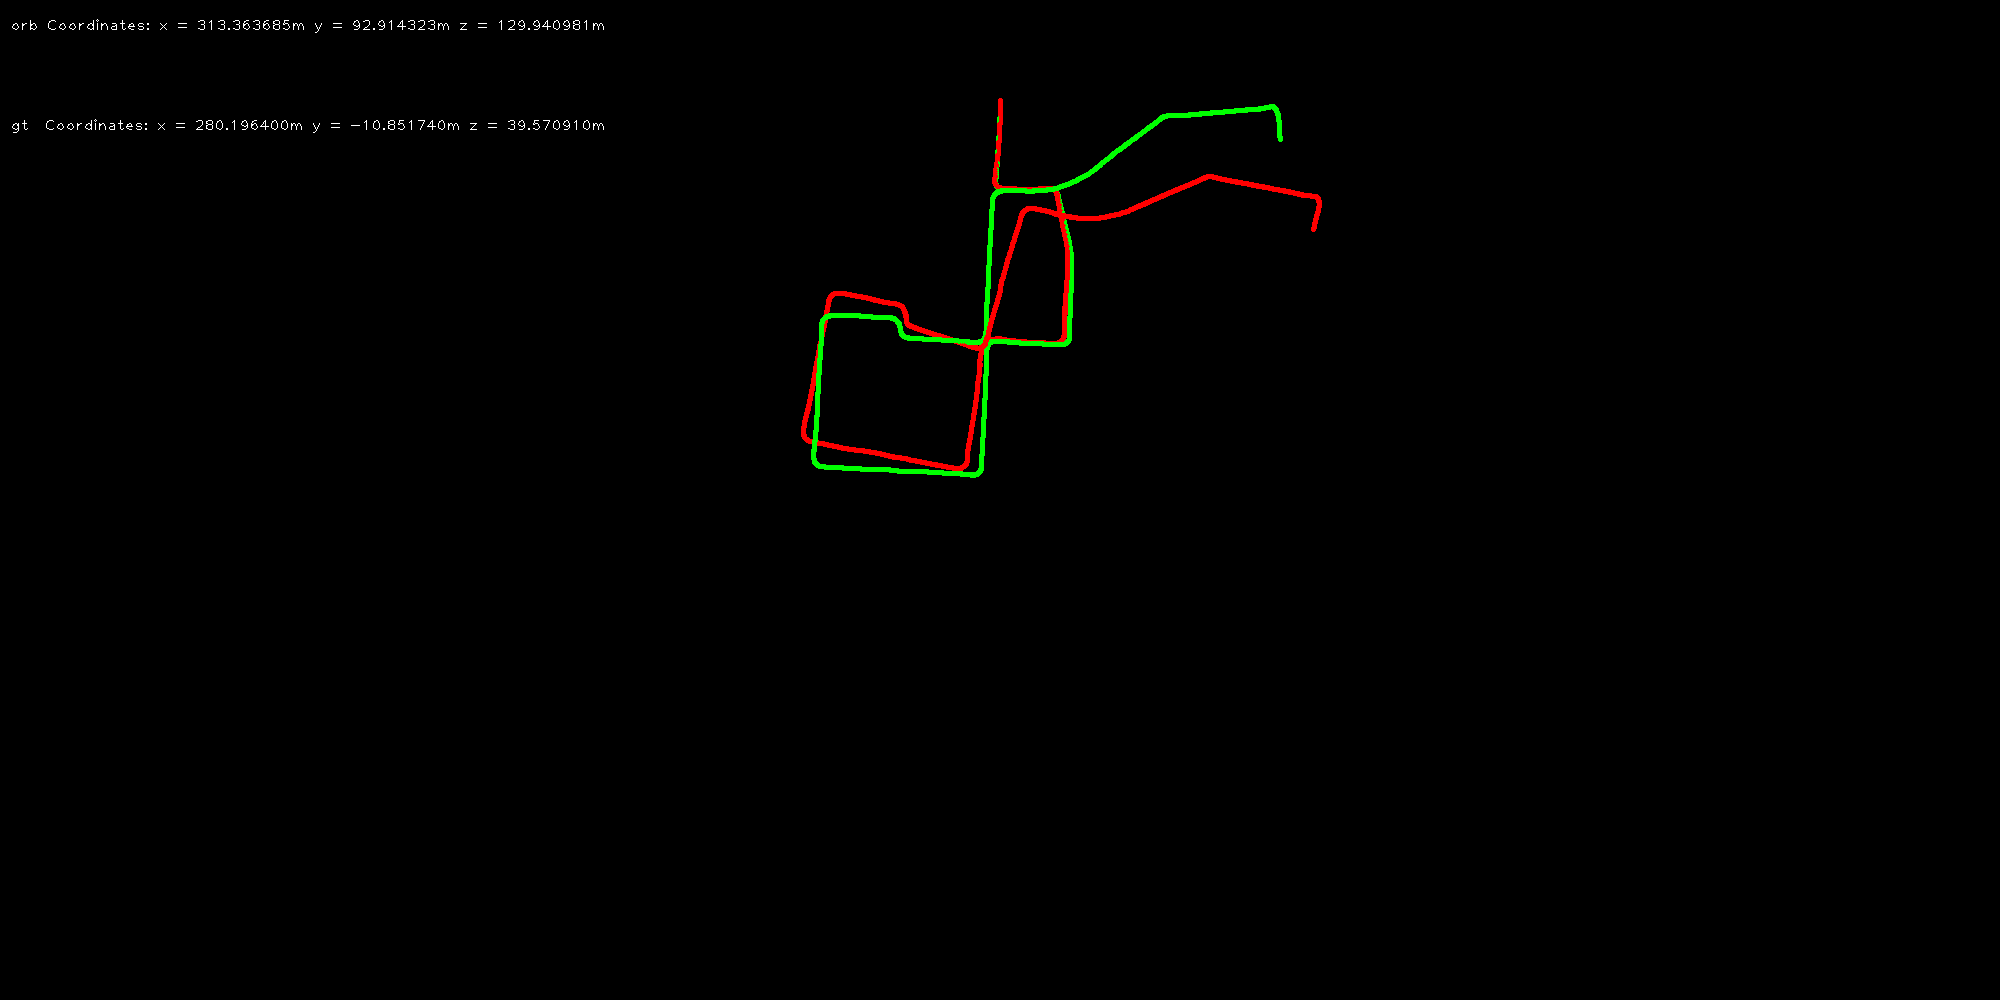
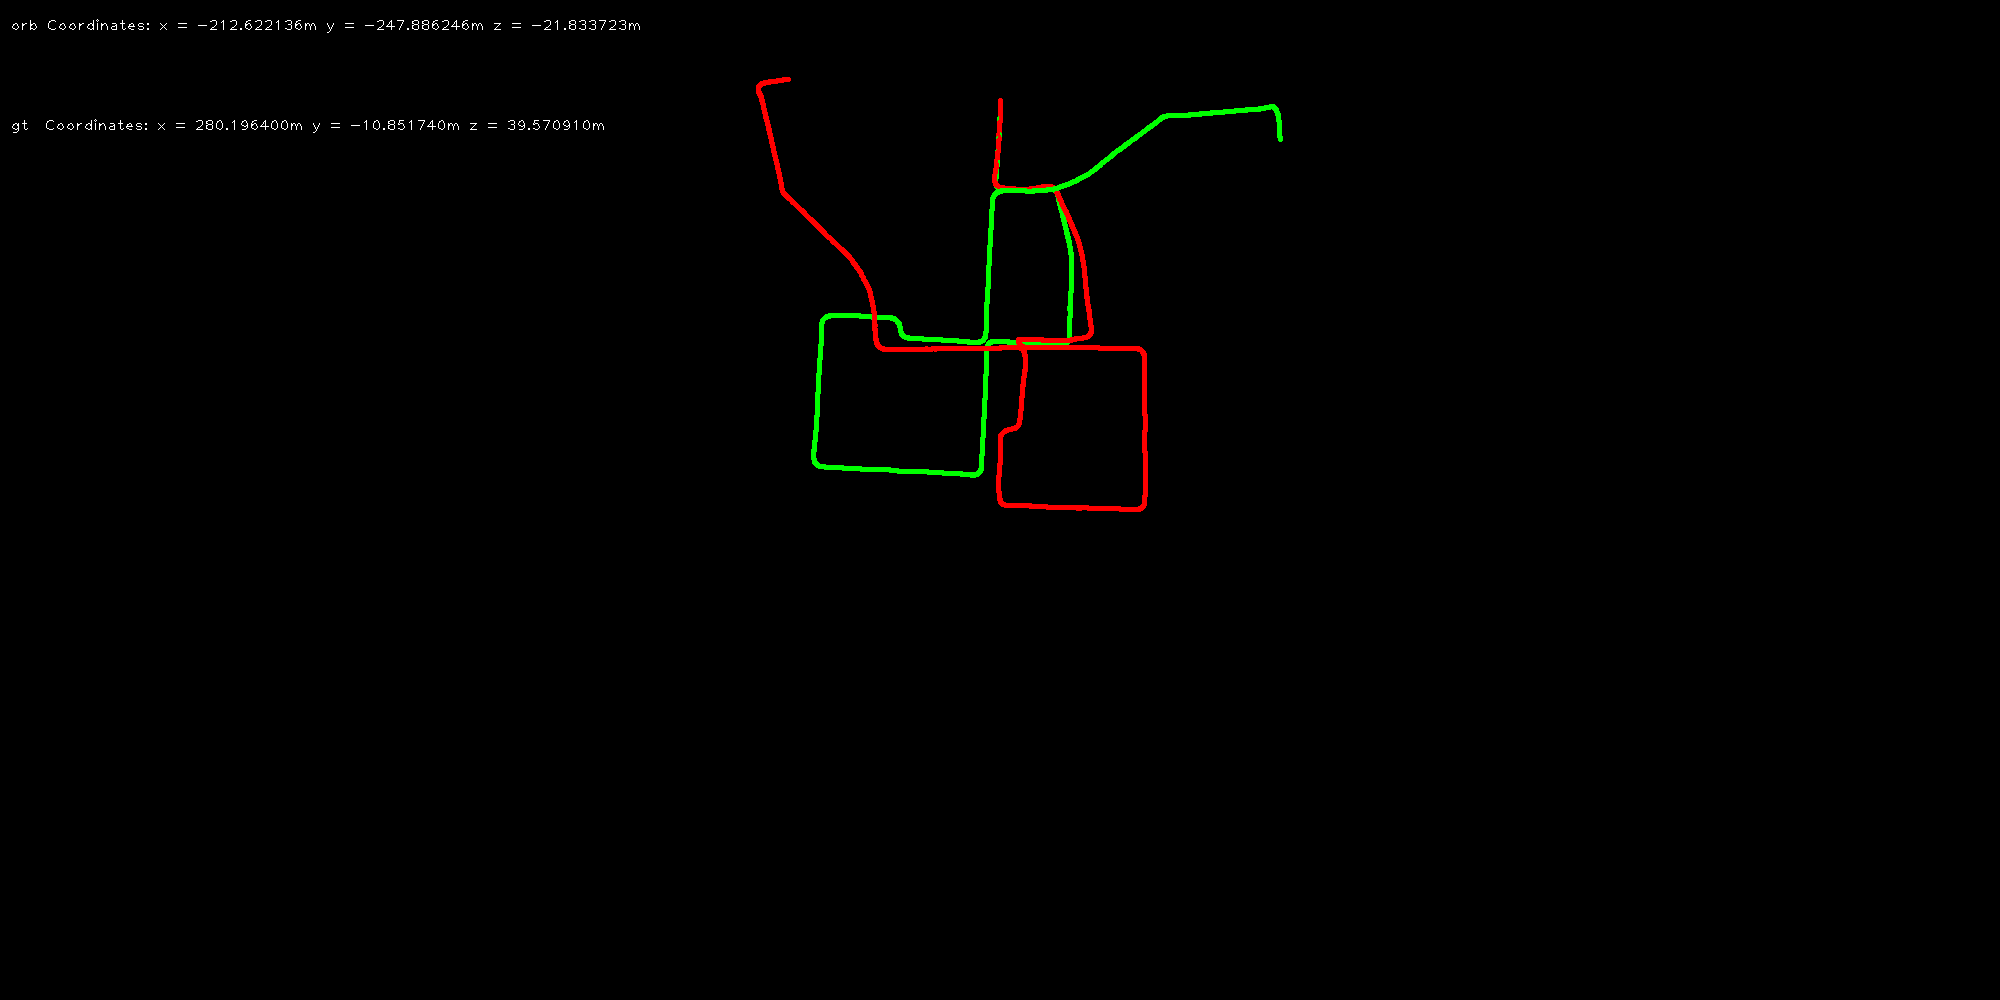
add bisenet rmse

diff --git a/vis_odom_using_BiSeNet_v2.py b/vis_odom_using_BiSeNet_v2.py
@@ -7,8 +7,22 @@ import types
 import operator
 
 
+sys.path.insert(0, '/home/cordin/mono_vis_odom_python')
+
+import torch
+import torch.nn as nn
+
+import lib.transform_cv2 as T
+from lib.models import model_factory
+from configs import set_cfg_from_file
+
+torch.set_grad_enabled(False)
+np.random.seed(123)
+
+
+## orb 및 bf matcher 선언
 orb = cv2.cv2.ORB_create(
-                        nfeatures=3000,
+                        nfeatures=5000,
                         scaleFactor=1.2,
                         nlevels=8,
                         edgeThreshold=31,
@@ -21,19 +35,6 @@ orb = cv2.cv2.ORB_create(
 
 bf = cv2.BFMatcher(cv2.NORM_HAMMING)
 
-
-import torch
-import torch.nn as nn
-
-sys.path.insert(0, '/home/cordin/Vis_odom_python')
-
-import lib.transform_cv2 as T
-from lib.models import model_factory
-from configs import set_cfg_from_file
-
-
-torch.set_grad_enabled(False)
-np.random.seed(123)
 
 mapping = { 
         0: 19,
@@ -60,34 +61,34 @@ mapping = {
     }
 
 args = types.SimpleNamespace()
-args.config             = '/home/cordin/Vis_odom_python/configs/bisenetv2_city.py'
-args.weight_path        = '/home/cordin/Vis_odom_python/model_final_v2_city.pth'
+args.config             = '/home/cordin/mono_vis_odom_python/configs/bisenetv2_city.py'
+args.weight_path        = '/home/cordin/mono_vis_odom_python/model_final_v2_city.pth'
 
 cfg = set_cfg_from_file(args.config)
 palette = np.random.randint(0, 256, (256, 3), dtype=np.uint8)
 
-
-# define model
+## define model
 net = model_factory[cfg.model_type](cfg.n_cats, aux_mode='pred')
 net.load_state_dict(torch.load(args.weight_path, map_location='cpu'), strict=False)
 net.eval()
 net.cuda()
 
-# prepare data
+## prepare data
 to_tensor = T.ToTensor(
     mean=(0.3257, 0.3690, 0.3223), # city, rgb
     std=(0.2112, 0.2148, 0.2115),
 )
 
+##dynamic object라고 판단되는 class 들을 0으로 masking
 def encode_labels(mask):
     label_mask = np.zeros_like(mask)
     for k in mapping:
         label_mask[mask == k] = mapping[k]
     return label_mask
 
-def getScale(NumFrame, t_gt):
+def getScale(NumFrame, t_gt, seq_num):
 
-    txt_file = open('/media/cordin/새 볼륨/rosbag/dataset/poses/02.txt')
+    txt_file = open('/media/cordin/새 볼륨/rosbag/dataset/poses/{0:02d}.txt'.format(seq_num))
     
     x_prev = float(t_gt[0])
     y_prev = float(t_gt[1])
@@ -111,8 +112,10 @@ def getScale(NumFrame, t_gt):
 
 
 if __name__ == "__main__":
-    MAX_FRAME = 4541
-    
+    MAX_FRAME = 2000
+    SEQ_NUM = 2
+
+    # Camera intrinsic parameter    
     focal = 718.8560
     pp = (607.1928, 185.2157)
 
@@ -120,34 +123,40 @@ if __name__ == "__main__":
     textOrg2 = (10,80)
     textOrg3 = (10,130)
 
-    img_1_c = cv2.imread("/media/cordin/새 볼륨/rosbag/dataset/sequences/02/image_0/000000.png")
-    img_2_c = cv2.imread("/media/cordin/새 볼륨/rosbag/dataset/sequences/02/image_0/000001.png")
+    img_1_c = cv2.imread("/media/cordin/새 볼륨/rosbag/dataset/sequences/{0:02d}/image_0/000000.png".format(SEQ_NUM))
+    img_2_c = cv2.imread("/media/cordin/새 볼륨/rosbag/dataset/sequences/{0:02d}/image_0/000001.png".format(SEQ_NUM))
 
     img_1 = cv2.cvtColor(img_1_c,cv2.COLOR_BGR2GRAY)
     img_2 = cv2.cvtColor(img_2_c,cv2.COLOR_BGR2GRAY)
 
+
+    # 이미지 캔버스 생성
+    base_img1 = np.zeros((1024,2048,3),dtype=np.uint8)
+    base_img1[324:700,404:1645,:] = img_1_c
+    base_img2 = np.zeros((1024,2048,3),dtype=np.uint8)
+    base_img2[324:700,404:1645,:] = img_2_c
+
     # inference
-    im = cv2.resize(img_1_c,(640,480))
-    im = im[:, :, ::-1]       
-    im = to_tensor(dict(im=im, lb=None))['im'].unsqueeze(0).cuda()
+    im1 = base_img1[:, :, ::-1]       
+    im1 = to_tensor(dict(im=im1, lb=None))['im'].unsqueeze(0).cuda()
+    im2 = base_img2[:, :, ::-1]       
+    im2 = to_tensor(dict(im=im2, lb=None))['im'].unsqueeze(0).cuda()
 
-    out = net(im).squeeze().detach().cpu().numpy()
-
-    pred = np.where(out==0,19,out)
-    pred = palette[pred]
-    out = encode_labels(out)
-    pred_dynamic = palette[out]
+    out1 = net(im1).squeeze().detach().cpu().numpy()
+    out1 = encode_labels(out1)
+    out2 = net(im2).squeeze().detach().cpu().numpy()
+    out2 = encode_labels(out1)
     
-    base_mask = np.array(out, dtype=np.uint8) 
-    base_mask = cv2.resize(base_mask,(1241,376))
+    base_mask1 = np.array(out1, dtype=np.uint8) 
+    base_mask2 = np.array(out2, dtype=np.uint8) 
     ####
 
 
     kp1, des1 = orb.detectAndCompute(img_1,None)
     kp2, des2 = orb.detectAndCompute(img_2,None)
 
-    kp1_seg, des1_seg = orb.detectAndCompute(img_1,base_mask)
-    kp2_seg, des2_seg = orb.detectAndCompute(img_2,base_mask)
+    kp1_seg, des1_seg = orb.detectAndCompute(img_1,base_mask1)
+    kp2_seg, des2_seg = orb.detectAndCompute(img_2,base_mask2)
 
 
     matches = bf.match(des1,des2)
@@ -181,14 +190,11 @@ if __name__ == "__main__":
     pts2_seg = np.array(pts2_seg)
 
 
-    pts1 = np.array(pts1)
-    pts2 = np.array(pts2)
-
     E, mask = cv2.findEssentialMat(pts1,pts2,focal = focal, pp = pp, method=cv2.RANSAC, prob = 0.999, threshold=1.0)
     _, R_f, t_f, _ = cv2.recoverPose(E, pts1, pts2, focal = focal, pp = pp)
 
-    R_f_seg = R_f
-    t_f_seg = t_f
+    E_seg, mask_seg = cv2.findEssentialMat(pts1_seg,pts2_seg,focal = focal, pp = pp, method=cv2.RANSAC, prob = 0.999, threshold=1.0)
+    _, R_f_seg, t_f_seg, _ = cv2.recoverPose(E_seg, pts1, pts2, focal = focal, pp = pp)
 
     t_gt = np.zeros((3,1),dtype=np.float64)
 
@@ -207,31 +213,32 @@ if __name__ == "__main__":
 
     
     for numFrame in range(2, MAX_FRAME):
-        filename = '/media/cordin/새 볼륨/rosbag/dataset/sequences/02/image_0/{0:06d}.png'.format(numFrame)
+        filename = '/media/cordin/새 볼륨/rosbag/dataset/sequences/{0:02d}/image_0/{1:06d}.png'.format(SEQ_NUM,numFrame)
+
         currImage_c = cv2.imread(filename)
-
-
         currImage = cv2.cvtColor(currImage_c,cv2.COLOR_BGR2GRAY)
 
+        # 이미지 캔버스 생성
+        base_img = np.zeros((1024,2048,3),dtype=np.uint8)
+        base_img[324:700,404:1645,:] = currImage_c
+
         # inference
-        im = cv2.resize(currImage_c,(640,480))
-        im = im[:, :, ::-1]       
+        im = base_img[:, :, ::-1]
         im = to_tensor(dict(im=im, lb=None))['im'].unsqueeze(0).cuda()
 
         out = net(im).squeeze().detach().cpu().numpy()
-
-        pred = np.where(out==0,19,out)
-        pred = palette[pred]
+        out = out[324:700,404:1645]
         out = encode_labels(out)
+
         pred_dynamic = palette[out]
-        
         base_mask = np.array(out, dtype=np.uint8) 
-        base_mask = cv2.resize(base_mask,(1241,376))
-        ####
 
+
+        # feature extraction
         kp_curr, des_curr = orb.detectAndCompute(currImage,None)
-        kp_curr_seg, des_curr_seg = orb.detectAndCompute(currImage,base_mask)
+        kp_curr_seg, des_curr_seg = orb.detectAndCompute(currImage,base_mask) # base_mask를 제외한 영역에서 feature 추출
 
+        # feature matching
         matches = bf.match(des_prev,des_curr)
         matches_seg = bf.match(des_prev_seg,des_curr_seg)
 
@@ -264,21 +271,24 @@ if __name__ == "__main__":
         pts1_seg = np.array(pts1_seg)
         pts2_seg = np.array(pts2_seg)
 
+        # caculate R, t
         E_mat, mask_n = cv2.findEssentialMat(pts2, pts1, focal = focal, pp = pp, method=cv2.RANSAC, prob = 0.999, threshold=1.0)
         _, R, t, _ = cv2.recoverPose(E_mat, pts2, pts1, focal = focal, pp = pp)
 
         E_seg, mask_seg = cv2.findEssentialMat(pts2_seg, pts1_seg, focal = focal, pp = pp, method=cv2.RANSAC, prob = 0.999, threshold=1.0)
         _, R_seg, t_seg, _ = cv2.recoverPose(E_seg, pts2_seg, pts1_seg, focal = focal, pp = pp)
         
-        abs_scale, t_gt = getScale(numFrame, t_gt)
+        # get scale
+        abs_scale, t_gt = getScale(numFrame, t_gt, SEQ_NUM)
         
+        # update trajectory
         t_f = t_f + abs_scale*R_f.dot(t)
         R_f = R.dot(R_f)
 
         t_f_seg = t_f_seg + abs_scale*R_f_seg.dot(t_seg)
         R_f_seg = R_seg.dot(R_f_seg)
 
-
+        # caculate Error
         error = map(operator.sub,t_gt,t_f)
         error_seg = map(operator.sub,t_gt,t_f_seg)
 
@@ -301,14 +311,16 @@ if __name__ == "__main__":
         kp_prev_seg = kp_curr_seg
         des_prev_seg = des_curr_seg
 
-        # x_gt = int(t_gt[0]) + 500
-        # y_gt = int(t_gt[2]) + 300
 
-        # x = int(t_f[0]) + 500
-        # y = int(t_f[2]) + 300
+        # x_gt = int(t_gt[0]) + 100
+        # y_gt = int(t_gt[2]) + 900
 
-        # x_seg = int(t_f_seg[0]) + 500
-        # y_seg = int(t_f_seg[2]) + 300
+        # x = int(t_f[0]) + 100
+        # y = int(t_f[2]) + 900
+
+        # x_seg = int(t_f_seg[0]) + 100
+        # y_seg = int(t_f_seg[2]) + 900
+
 
         x_gt = int(t_gt[0]) + 1000
         y_gt = int(t_gt[2]) + 100
@@ -349,4 +361,4 @@ if __name__ == "__main__":
 
         cv2.waitKey(1)
     
-    cv2.imwrite("result_using_BiSeNet_v2.png",traj)
+    cv2.imwrite("result_using_BiSeNet_v2_{0:02d}.png".format(SEQ_NUM),traj)

diff --git a/vis_odom.py b/vis_odom.py
@@ -8,7 +8,7 @@ import operator
 
 ## orb 및 bf matcher 선언
 orb = cv2.cv2.ORB_create(
-                        nfeatures=3000,
+                        nfeatures=5000,
                         scaleFactor=1.2,
                         nlevels=8,
                         edgeThreshold=31,
@@ -22,9 +22,9 @@ orb = cv2.cv2.ORB_create(
 bf = cv2.BFMatcher(cv2.NORM_HAMMING)
 
 
-def getScale(NumFrame, t_gt):
+def getScale(NumFrame, t_gt, seq_num):
 
-    txt_file = open('/media/cordin/새 볼륨/rosbag/dataset/poses/02.txt')
+    txt_file = open('/media/cordin/새 볼륨/rosbag/dataset/poses/{0:02d}.txt'.format(seq_num))
     
     x_prev = float(t_gt[0])
     y_prev = float(t_gt[1])
@@ -48,8 +48,9 @@ def getScale(NumFrame, t_gt):
 
 
 if __name__ == "__main__":
-    MAX_FRAME = 4541
-    
+    MAX_FRAME = 1000
+    SEQ_NUM = 2
+
     #Camera intrinsic parameter
     focal = 718.8560
     pp = (607.1928, 185.2157)
@@ -58,9 +59,8 @@ if __name__ == "__main__":
     textOrg2 = (10,80)
     textOrg3 = (10,130)
 
-    img_1_c = cv2.imread("/media/cordin/새 볼륨/rosbag/dataset/sequences/02/image_0/000000.png")
-    img_2_c = cv2.imread("/media/cordin/새 볼륨/rosbag/dataset/sequences/02/image_0/000001.png")
-
+    img_1_c = cv2.imread("/media/cordin/새 볼륨/rosbag/dataset/sequences/{0:02d}/image_0/000000.png".format(SEQ_NUM))
+    img_2_c = cv2.imread("/media/cordin/새 볼륨/rosbag/dataset/sequences/{0:02d}/image_0/000001.png".format(SEQ_NUM))
     img_1 = cv2.cvtColor(img_1_c,cv2.COLOR_BGR2GRAY)
     img_2 = cv2.cvtColor(img_2_c,cv2.COLOR_BGR2GRAY)
 
@@ -70,7 +70,7 @@ if __name__ == "__main__":
     matches = bf.match(des1,des2)
     matches = sorted(matches, key = lambda x:x.distance)
 
-    idx = matches[0:1000]
+    idx = matches[0:1500]
 
     pts1 = []
     pts2 = []
@@ -100,9 +100,8 @@ if __name__ == "__main__":
 
     rmse_total = 0
     
-    for numFrame in range(2, 2000):
-        filename = '/media/cordin/새 볼륨/rosbag/dataset/sequences/02/image_0/{0:06d}.png'.format(numFrame)
-        
+    for numFrame in range(2, MAX_FRAME):
+        filename = '/media/cordin/새 볼륨/rosbag/dataset/sequences/{0:02d}/image_0/{1:06d}.png'.format(SEQ_NUM,numFrame)
         
         currImage_c = cv2.imread(filename)
         currImage = cv2.cvtColor(currImage_c,cv2.COLOR_BGR2GRAY)
@@ -113,7 +112,7 @@ if __name__ == "__main__":
         # feature matching
         matches = bf.match(des_prev,des_curr)
         matches = sorted(matches, key = lambda x:x.distance)
-        idx = matches[0:3000]
+        idx = matches[0:1500]
 
         pts1 = []
         pts2 = []
@@ -130,7 +129,7 @@ if __name__ == "__main__":
         _, R, t, _ = cv2.recoverPose(E_mat, pts2, pts1, focal = focal, pp = pp)
 
         # get scale
-        abs_scale, t_gt = getScale(numFrame, t_gt)
+        abs_scale, t_gt = getScale(numFrame, t_gt, SEQ_NUM)
         
         # update trajectory
         t_f = t_f + abs_scale*R_f.dot(t)
@@ -173,4 +172,4 @@ if __name__ == "__main__":
 
         cv2.waitKey(1)
     
-    cv2.imwrite("result_02.png",traj)
+    cv2.imwrite("result_{0:02d}.png".format(SEQ_NUM),traj)

diff --git a/test.py b/test.py
@@ -1,0 +1,8 @@
+import numpy as np
+
+base_img = np.zeros((3,1024,2048),dtype=np.uint8)
+print(base_img.shape)
+print(base_img[:,324:700,404:1645].shape)
+
+
+# [324:701][404:1646]

diff --git a/README.md b/README.md
@@ -1,11 +1,13 @@
 # mono_vis_odom_python
 ## visual odometry using semantic segemtation
-
 sequence 00 (2000 frames)
-> 1. rmse     =  27.34014186429592 
+> 1. rmse     =  119.36
+> 2. rmse seg =  26.38
 
 sequence 01 (1000 frames)
-> 1. rmse     =  95.40130569160895
+> 1. rmse     =  129.35
+> 2. rmse seg =  112.48
 
 sequence 02 (2000 frames)
-> 1. rmse     =  41.76055190794054
+> 1. rmse     =  39.91
+> 2. rmse seg =  13.06
